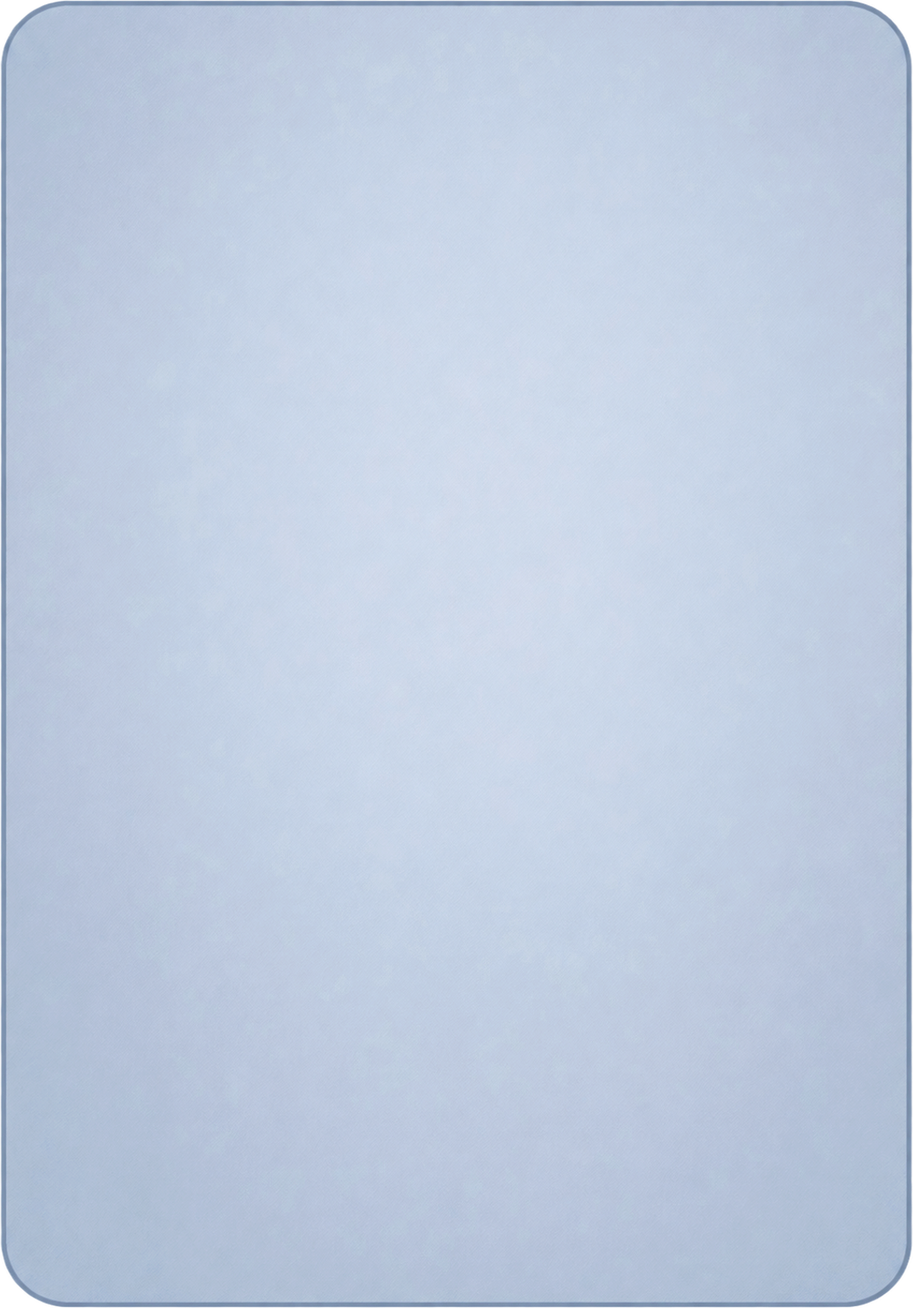
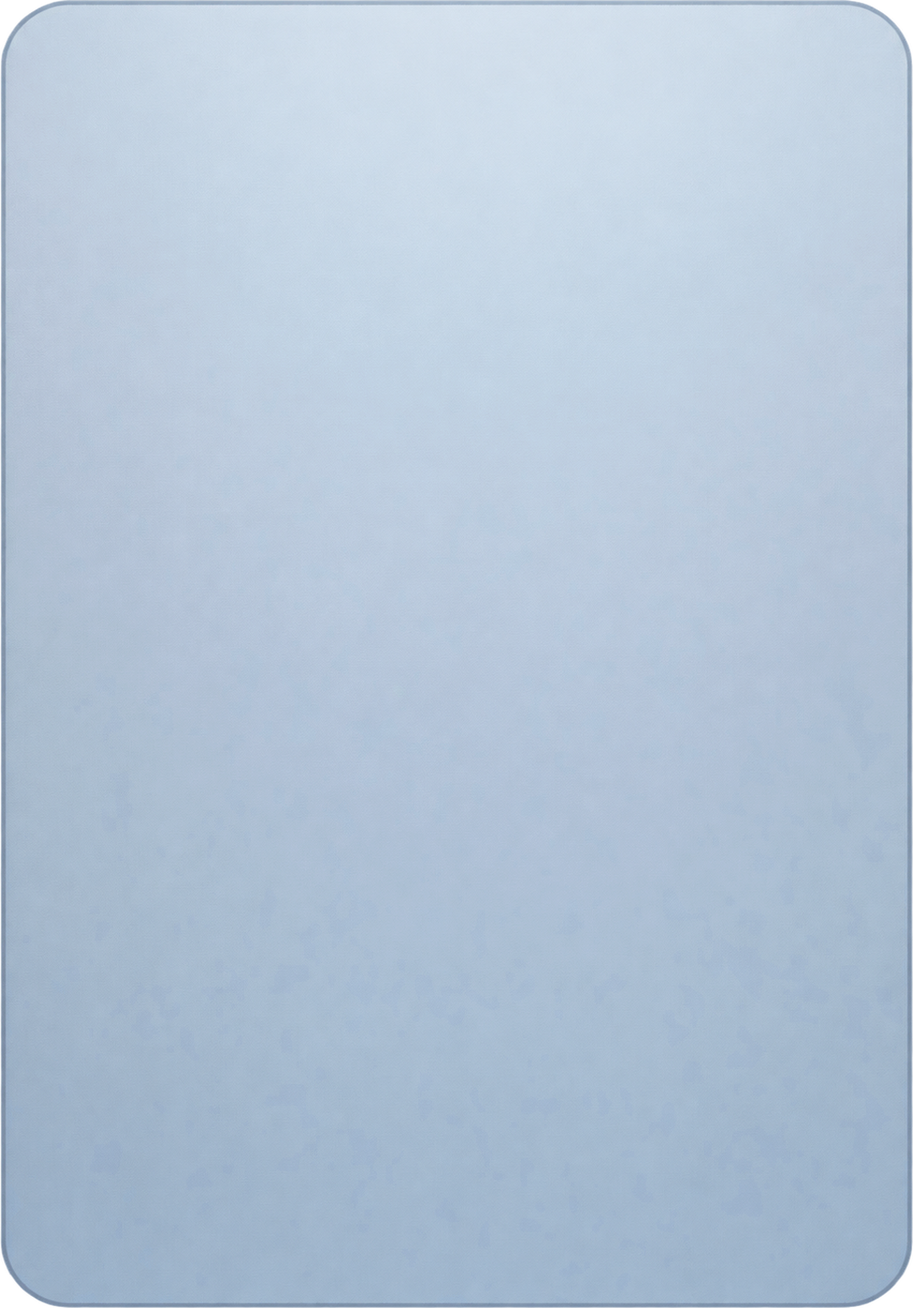
商店三修：大背板重生成；商品卡去锯齿（直边圆角）；品质图标座描边改品质色（图生图编辑+黑底抠图）

diff --git a/KingdomWatch/assets/scripts/ui/Ux.ts b/KingdomWatch/assets/scripts/ui/Ux.ts
@@ -83,8 +83,8 @@ const SLICE9: Record<string, Slice9Def> = {
   ui_panel_zone: { canon: [1436, 140], inset: [31, 31, 8, 8], scale: 0.5 },
   ui_panel_hero: { canon: [1436, 140], inset: [31, 31, 8, 8], scale: 0.5 },  // 英雄页上半区全宽大背板
   /* 商店三件（浅蓝灰底板/金色锯齿卡/羊皮标题横幅）+ 购买钮 */
-  ui_panel_shop: { canon: [1500, 2148], inset: [127, 127, 56, 56], scale: 0.5 },
-  ui_card_shop: { canon: [660, 600], inset: [38, 38, 44, 44], scale: 0.5 },
+  ui_panel_shop: { canon: [1500, 2148], inset: [114, 114, 57, 57], scale: 0.5 },
+  ui_card_shop: { canon: [660, 600], inset: [51, 51, 25, 25], scale: 0.5 },
   ui_btn_buy: { canon: [480, 108], inset: [35, 35, 21, 21], scale: 0.5 },
   ui_banner_shop: { canon: [1040, 176], inset: [45, 45, 38, 32], scale: 0.5 },
 };

diff --git a/美术/tools/compose_9slice.py b/美术/tools/compose_9slice.py
@@ -49,8 +49,8 @@ COMPOSE = {
     "ui_card_header_white":  ("ui_card_header_white.png",  400, 104, 90, 15, 15),
     "ui_card_header_blue":   ("ui_card_header_blue.png",   400, 104, 90, 15, 15),
     "ui_card_header_purple": ("ui_card_header_purple.png", 400, 104, 90, 15, 15),
-    "ui_panel_shop":   ("ui_panel_shop.png",   1500, 2148,  90,  40,  40),
-    "ui_card_shop":    ("ui_card_shop.png",    660,  600,  60,  70,  70),
+    "ui_panel_shop":   ("ui_panel_shop.png",   1500, 2148,  80,  40,  40),
+    "ui_card_shop":    ("ui_card_shop.png",    660,  600,  80,  40,  40),
     "ui_btn_buy":      ("ui_btn_buy.png",       480,  108,  90,  55,  55),
     "ui_banner_shop":  ("ui_banner_shop.png",  1040,  176, 100,  85,  70),
 }
